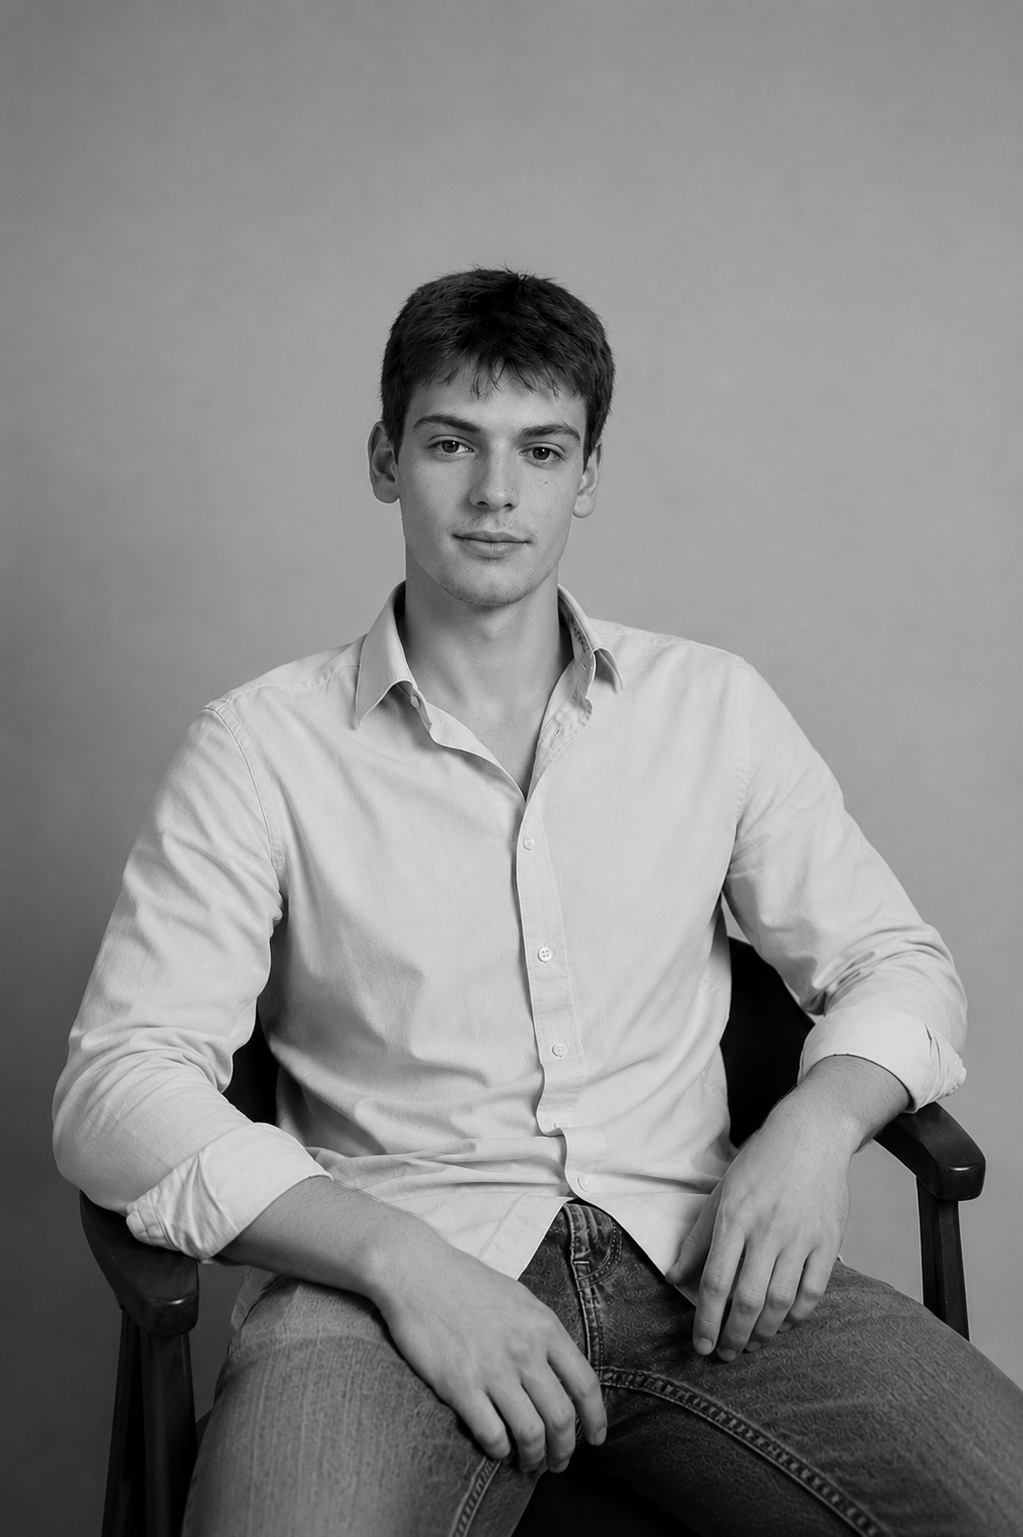
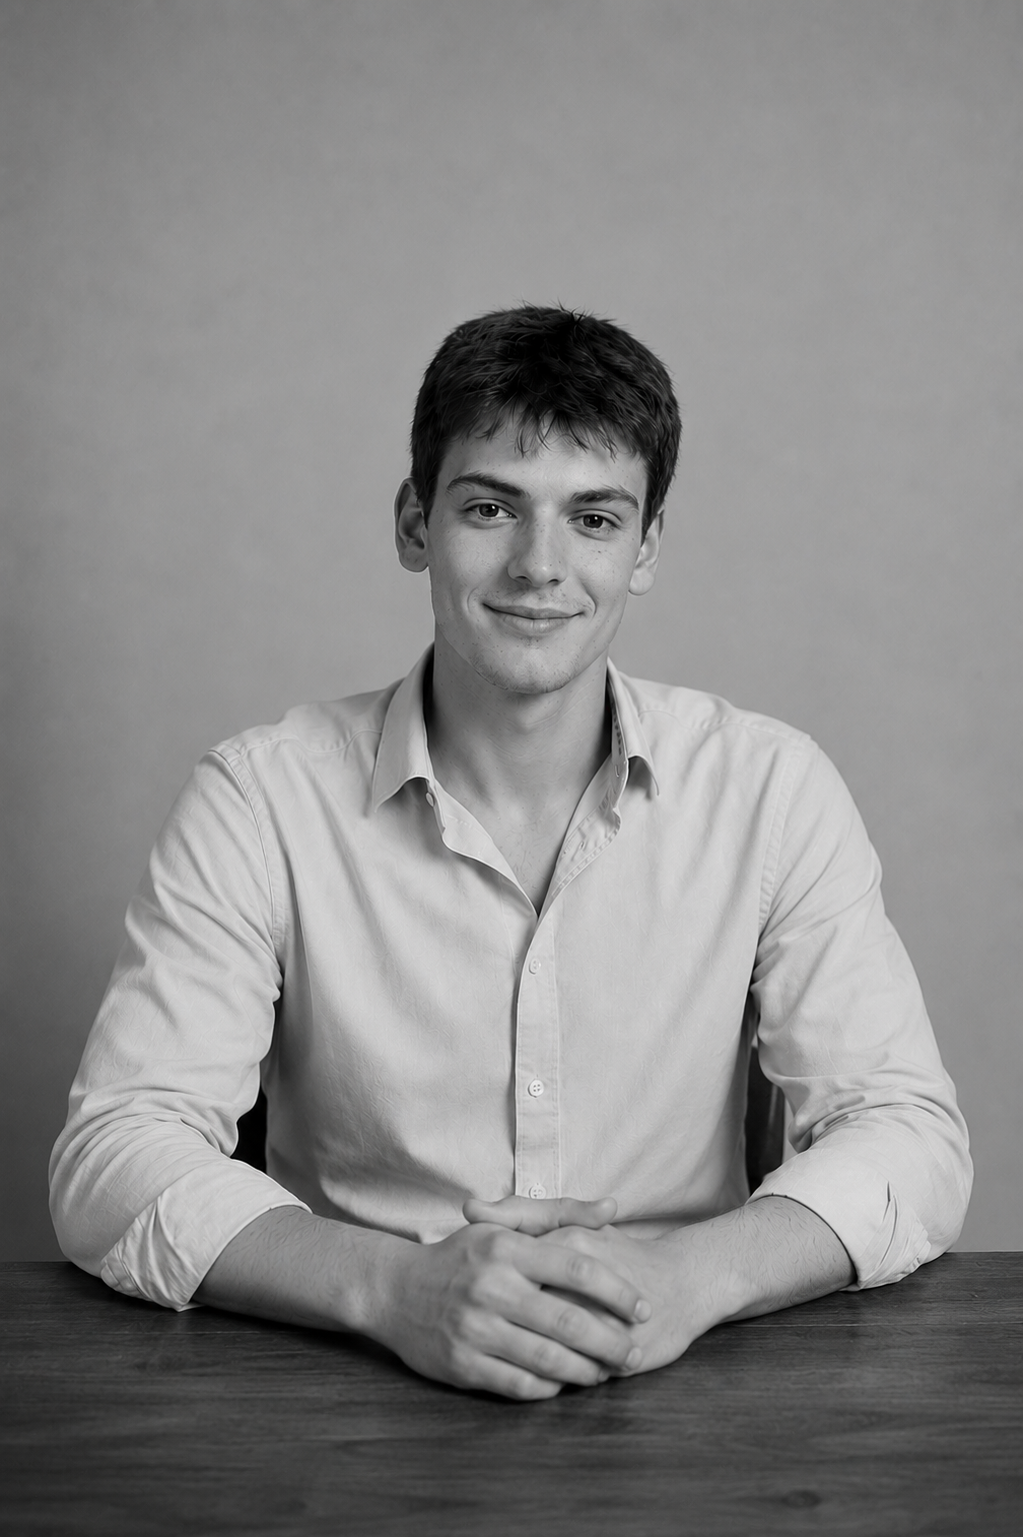
Add files via upload

diff --git a/about.html b/about.html
@@ -180,7 +180,7 @@
 
       <!-- RIGHT: Bio -->
       <div class="bio-col">
-        <p>Dylan Budner is an architectural designer interested in the relationship between theory and practice. He graduated from Tufts University with a degree in Architectural Studies and Structural Engineering. His work spans residential and commercial architecture, guided by a belief that every design decision should have a clear purpose. He approaches architecture as a way of understanding how people interact with the built environment.</p>
+        <p>Dylan Budner is an architectural designer interested in the relationship between theory and practice. He graduated from Tufts University with a degree in Architectural Studies and Structural Engineering. His interests include both residential and commercial architecture, and he is drawn to projects where design decision has a reason behind it.</p>
         <p>Beyond architecture, Dylan has a broad interest in design across different forms of media and enjoys hiking, fishing, and skiing. His appreciation for ecological design has been shaped by time spent outdoors, while his involvement in community service, including The Prouty, reflects his belief that design should ultimately serve people. He is currently gaining professional experience before pursuing a master's degree and architectural licensure.</p>
       </div>
 
